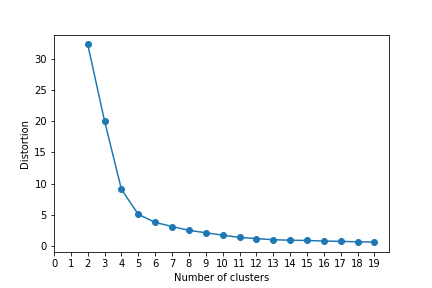
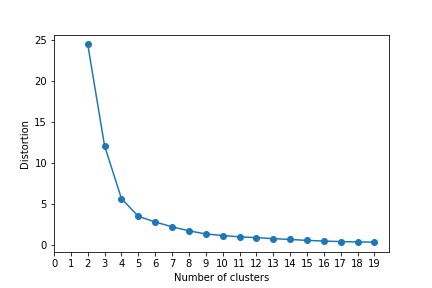
Fixed mistake when clustering

diff --git a/src/features/build_features_Accelerometer_Day2.py b/src/features/build_features_Accelerometer_Day2.py
@@ -5,6 +5,7 @@ from numpy import corrcoef, transpose, arange
 from pylab import pcolor, show, colorbar, xticks, yticks, savefig
 import sklearn.neighbors
 from scipy import cluster
+from sklearn import preprocessing
 
 # Read the data and load it into memory
 df = pd.read_csv("../../data/raw/T2.csv")
@@ -80,17 +81,20 @@ show()
 # maintain them for the same reason: keep the same features as before to have some means to compare the results.
 
 # Now we plot a dendogram.
+scaler = preprocessing.MinMaxScaler()
+datanorm = scaler.fit_transform(df_T)
+
 dist = sklearn.neighbors.DistanceMetric.get_metric('euclidean')
-matsim = dist.pairwise(transpose(df_T))
+matsim = dist.pairwise(transpose(datanorm))
 clusters = cluster.hierarchy.linkage(matsim, method = 'complete')
 cluster.hierarchy.dendrogram(clusters, color_threshold=50)
-plt.savefig("../../reports/figures/Features_Dendogram_Day1")
+plt.savefig("../../reports/figures/Features_Dendogram_Day2")
 plt.show()
 
-# This dendogram looks a lot better than the one we had from the other day, and all the features
-# seem to have different values. We still remove the covariances:
-df_T = df_T.drop("AccelerometerStat_COV_y_x", axis = 1)
-df_T = df_T.drop("AccelerometerStat_COV_z_y", axis = 1)
+# We remove the variances:
+df_T = df_T.drop("AccelerometerStat_x_VAR", axis = 1)
+df_T = df_T.drop("AccelerometerStat_y_VAR", axis = 1)
+df_T = df_T.drop("AccelerometerStat_z_VAR", axis = 1)
 
 # Save processed data 
 df_T.to_csv('../../data/processed/T2_Accelerometer.csv', index=False)

diff --git a/src/visualization/visualize_Accelerometer.py b/src/visualization/visualize_Accelerometer.py
@@ -31,7 +31,7 @@ print (estimator.explained_variance_ratio_)
 x = X_pca[:,0]
 y = X_pca[:,1]
 plt.scatter(x,y)
-plt.savefig("../../reports/figures/PCA_Plot_Accelerometer_Day1_Selected")
+plt.savefig("../../reports/figures/PCA_Plot_Accelerometer_Day2_Selected")
 plt.show()
 
 
@@ -71,14 +71,14 @@ plt.plot(range(2,20), distortions, marker='o')
 plt.xlabel('Number of clusters')
 plt.ylabel('Distortion')
 plt.xticks(np.arange(0, 20, 1.0))
-plt.savefig("../../reports/figures/KMeans_Distortion_Accelerometer_Day1_Selected")
+plt.savefig("../../reports/figures/KMeans_Distortion_Accelerometer_Day2_Selected")
 plt.show()
 # Print the Silouhette
 plt.plot(range(2,20), silhouettes , marker='o')
 plt.xlabel('Number of clusters')
 plt.ylabel('Silhouette')
 plt.xticks(np.arange(0, 20, 1.0))
-plt.savefig("../../reports/figures/KMeans_Silhouette_Accelerometer_Day1_Selected")
+plt.savefig("../../reports/figures/KMeans_Silhouette_Accelerometer_Day2_Selected")
 plt.show()
 
 
@@ -95,5 +95,5 @@ x = X_pca[:,0]
 y = X_pca[:,1]
 plt.scatter(x,y, c = km.labels_)
 plt.scatter(km.cluster_centers_[:, 0], km.cluster_centers_[:, 1], c = "red")
-plt.savefig("../../reports/figures/KMeans_Plot_Accelerometer_Day1_Selected")
+plt.savefig("../../reports/figures/KMeans_Plot_Accelerometer_Day2_Selected")
 plt.show()
